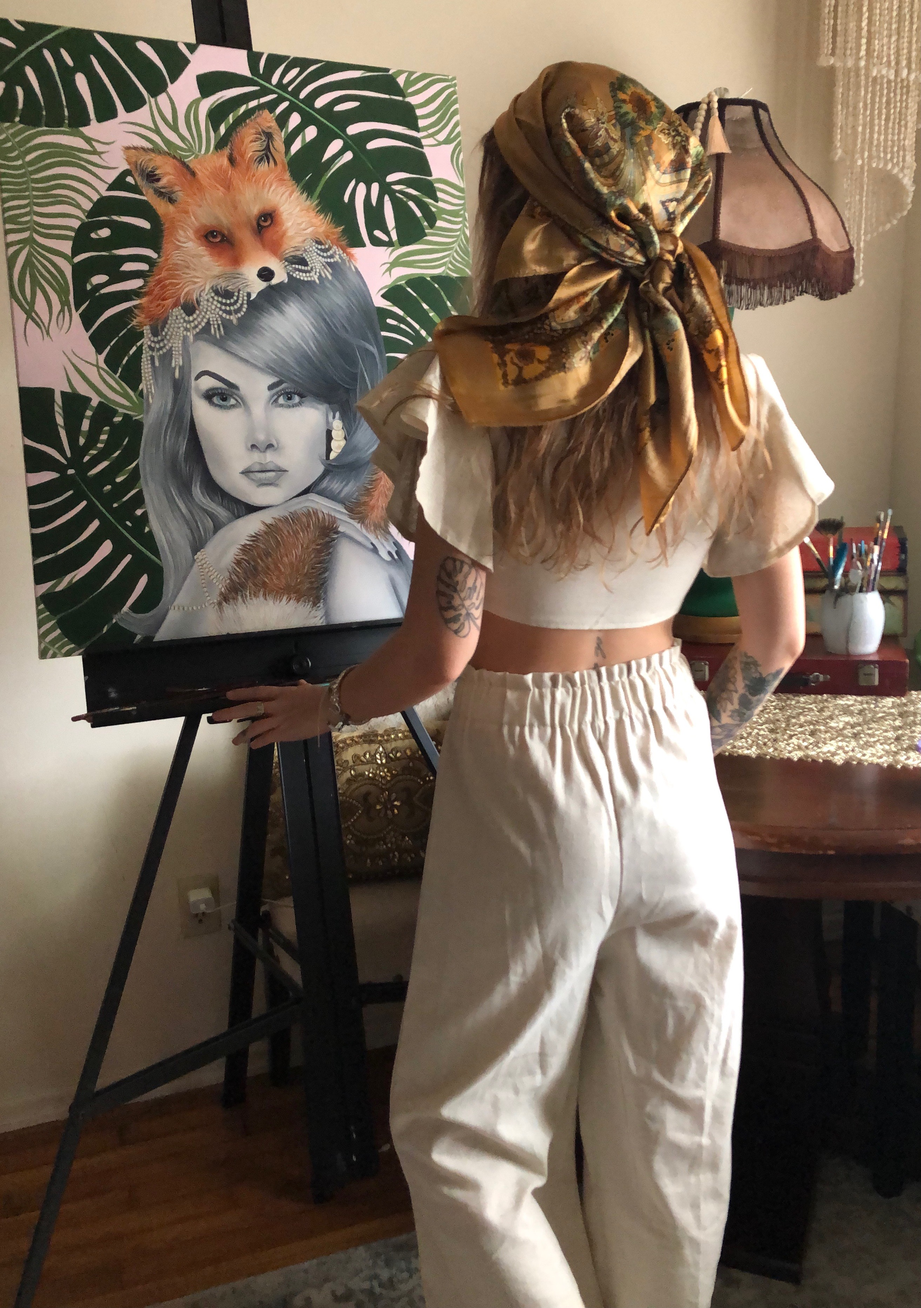
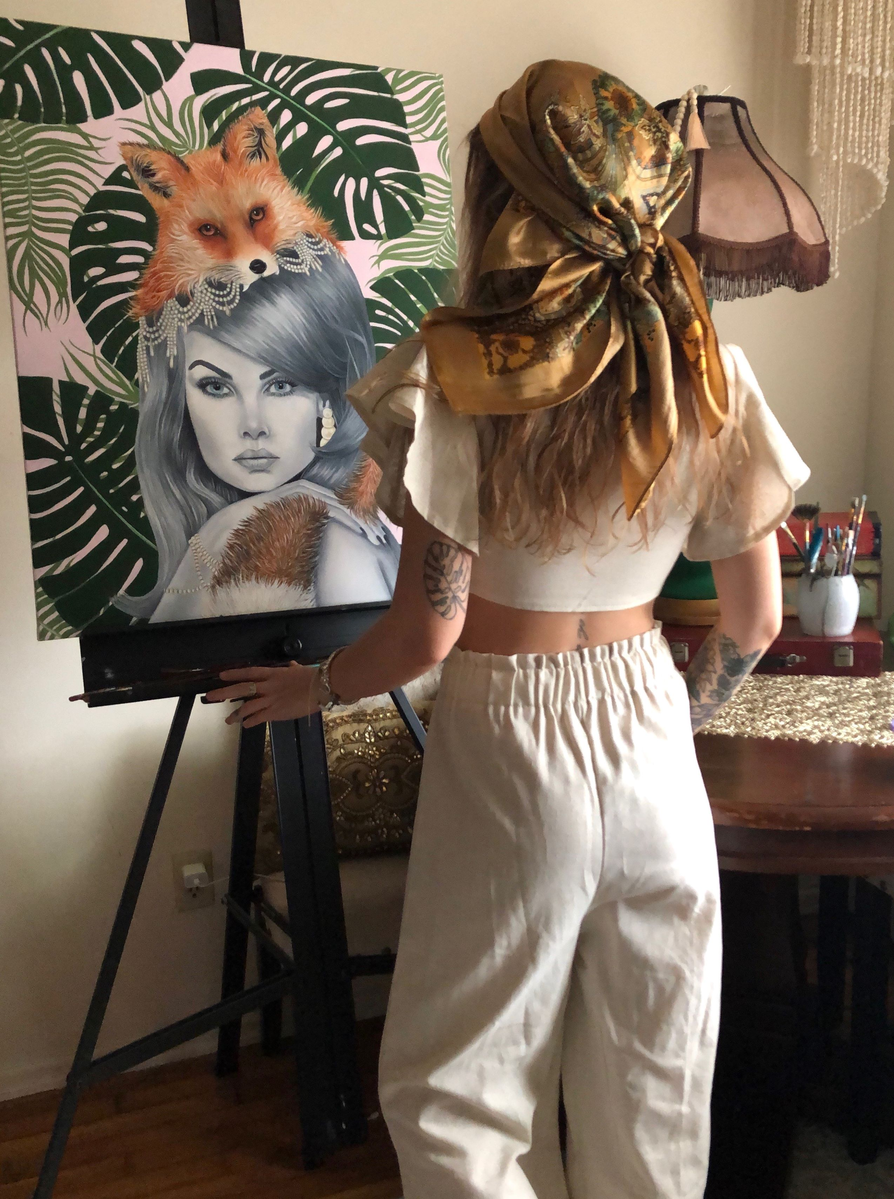
new photo

diff --git a/client/src/component/AboutMe/AboutMeComponent.js b/client/src/component/AboutMe/AboutMeComponent.js
@@ -2,7 +2,7 @@ import React from 'react';
 import "./about.css";
 import Morgs from "./morgs.png";
 import Morgs2 from "./IMG_5321.jpeg";
-import Morgs3 from "./IMG_5344.jpeg";
+import Morgs3 from "./otherAboutMorgs.jpeg";
 
 function AboutMeComponent() {
     return (
